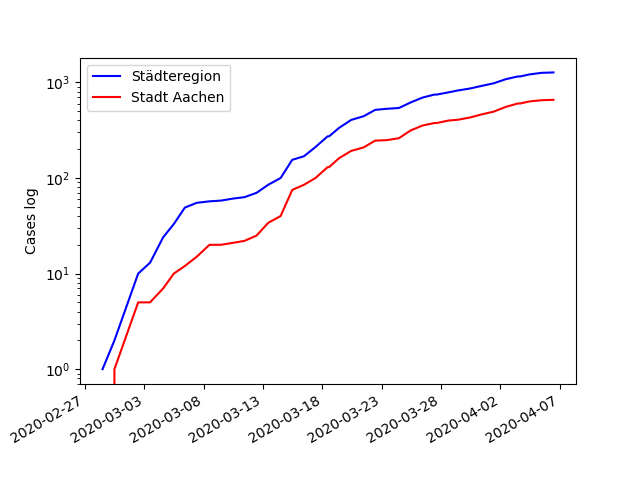
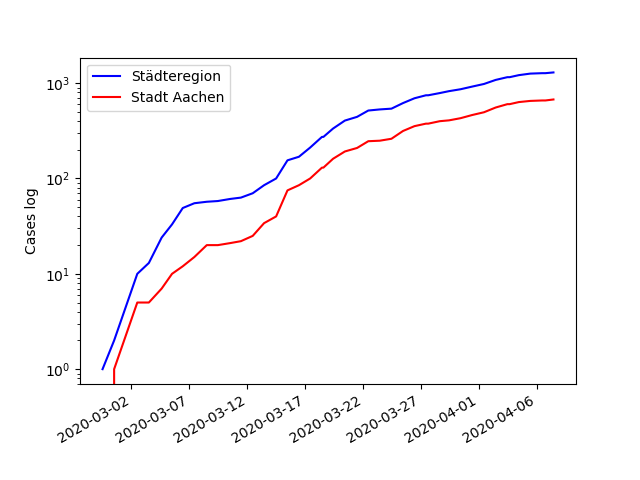
covid19 update

diff --git a/content/blog/Covid19/index.md b/content/blog/Covid19/index.md
@@ -1,6 +1,6 @@
 --- 
  title: Covid19 in Aachen (Stadt und Städteregion) 
- date: "2020-04-06T18:32:54.000Z" 
+ date: "2020-04-07T11:35:19.000Z" 
 --- 
 The city of Aachen publishes (more or less) daily updates about Covid19. It's in the form of a daily press release, so I decided to collect this data to make it more usable for further processing ([google spread sheet](https://docs.google.com/spreadsheets/d/1Th4GSgmTpX4GtcebVDzIfRuCOu2cSOc2WJCORHcCw-Y)).
 
